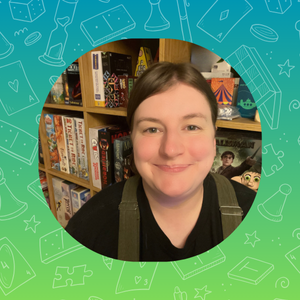
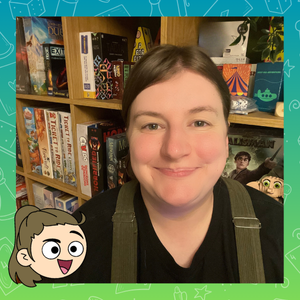
updated photos, added quote, upgraded mobile

diff --git a/style.css b/style.css
@@ -855,3 +855,170 @@ footer {
     min-width: 100%;
   }
 }
+
+/*-----*/
+
+.philosophy-quote{
+  max-width: 900px;
+  margin: 3rem auto;
+  padding: 2rem 2.25rem;
+  border-radius: 14px;
+  background: #fffef9; /* cream */
+  box-shadow: 0 16px 40px rgba(0,0,0,0.14);
+  border: 3px solid var(--teal);
+  position: relative;
+  transform: rotate(1deg);
+}
+
+.philosophy-quote::before{
+  content: "";
+  position: absolute;
+  top: -14px;
+  left: 50%;
+  transform: translateX(-50%) rotate(-2deg);
+  width: 120px;
+  height: 28px;
+  background: rgba(255, 107, 107, 0.35); /* coral tape */
+  border-radius: 8px;
+  box-shadow: 0 8px 18px rgba(0,0,0,0.08);
+}
+
+.quote-text{
+  font-size: clamp(1.1rem, 2vw, 1.45rem);
+  font-weight: 900;
+}
+
+.quote-attribution{
+  margin-top: 0.75rem;
+  font-weight: 800;
+  color: rgba(26,26,26,0.75);
+}
+
+/* =========================================
+   MOBILE-FIRST ENGAGEMENT ENHANCEMENTS
+   ========================================= */
+
+/* 1. Better vertical rhythm on mobile */
+@media (max-width: 768px) {
+  section {
+    padding: 4rem 1.25rem;
+  }
+
+  section + section {
+    margin-top: 2rem;
+  }
+}
+
+/* 2. Mobile hero tuning */
+@media (max-width: 768px) {
+  .hero {
+    min-height: auto;
+    padding-top: 6rem;
+  }
+
+  .hero-text h1 {
+    font-size: clamp(2.2rem, 9vw, 3rem);
+  }
+
+  .hero-visual {
+    margin-top: 2rem;
+    transform: scale(1.05);
+  }
+}
+
+/* 3. Gentle float animation for hero image (touch devices only) */
+@media (hover: none) {
+  .game-preview {
+    animation: floaty 4s ease-in-out infinite;
+  }
+}
+
+@keyframes floaty {
+  0%, 100% {
+    transform: translateY(0) rotate(2deg);
+  }
+  50% {
+    transform: translateY(-8px) rotate(2deg);
+  }
+}
+
+/* 4. Story text becomes cards on mobile */
+@media (max-width: 768px) {
+  .story-text {
+    background: rgba(255, 255, 255, 0.15);
+    padding: 1.25rem;
+    border-radius: 14px;
+    backdrop-filter: blur(6px);
+  }
+}
+
+/* 5. Juicy tap feedback (mobile only) */
+@media (hover: none) {
+  .btn:active,
+  .game-card:active,
+  .faq-question:active,
+  .polaroid:active {
+    transform: scale(0.97);
+  }
+}
+
+/* 6. Improved mobile navigation animation */
+@media (max-width: 768px) {
+  .nav-links {
+    transform: translateY(-10px);
+    opacity: 0;
+    transition: transform 0.3s ease, opacity 0.3s ease;
+  }
+
+  .nav-links.open {
+    transform: translateY(0);
+    opacity: 1;
+  }
+
+  .nav-links a {
+    padding: 0.75rem 0;
+    font-size: 1.1rem;
+  }
+}
+
+/* 7. Mobile-first CTA focus (hide secondary CTA) */
+@media (max-width: 768px) {
+  .btn-secondary {
+    display: none;
+  }
+}
+
+/* 8. Quote optimisation for mobile */
+@media (max-width: 768px) {
+  .philosophy-quote {
+    margin: 3rem auto;
+    padding: 2rem 1.5rem;
+  }
+
+  .quote-text {
+    font-size: 1.15rem;
+  }
+}
+
+/* 9. Scroll progress indicator (visual feedback) */
+body::before {
+  content: "";
+  position: fixed;
+  top: 0;
+  left: 0;
+  height: 4px;
+  width: 100%;
+  background: linear-gradient(to right, var(--coral), var(--teal));
+  transform-origin: left;
+  transform: scaleX(var(--scroll, 0));
+  z-index: 2000;
+}
+
+/* 10. Reduced motion support */
+@media (prefers-reduced-motion: reduce) {
+  * {
+    animation: none !important;
+    transition: none !important;
+    scroll-behavior: auto !important;
+  }
+}

diff --git a/index.html b/index.html
@@ -36,7 +36,7 @@
         <div class="hero-text">
           <h1>
             We make <span class="highlight">memorable</span> board games worth
-            playing twice
+            taking off your shelf
           </h1>
           <p class="hero-subtext">
             Two humans, one dog, zero corporate overlords. Just indie games with
@@ -170,6 +170,15 @@
           until they're actually fun. We make games that are easy to learn, fun
           to play, and even better when you add your own house rules.
         </p>
+ <div class="philosophy-quote">
+          <p class="quote-text">
+            "Playing board games and collecting board games are two separate hobbies"
+          </p>
+          <p class="quote-attribution">- Someone wise (probably Abby after buying another board game)</p>
+        </div>
+
+
+
         <div class="founders">
           <div class="polaroid">
             <img src="assets/matt.png" alt="Matt" />
@@ -209,11 +218,9 @@
 
         <div class="update-card">
           <div class="update-date">This Week</div>
-          <h3 class="update-title">Larry's playtest feedback:</h3>
+          <h3 class="update-title">Prototype sent off!</h3>
           <p class="update-text">
-            Barked twice, tried to eat a pen, knocked a vowel card off the
-            table. Somehow this helped us fix a timing issue. We don't question
-            his methods anymore.
+            We've been working hard sending off our designs to the printers, can't wait to see the first copy of Say What Now?!
           </p>
         </div>
 
@@ -222,18 +229,17 @@
           <h3 class="update-title">Kickstarter prep is WILD</h3>
           <p class="update-text">
             Turns out launching a board game involves way more spreadsheets than
-            we thought. But the prototypes look incredible and our playtesters
-            keep asking when they can buy it. Good sign?
+            we thought. Our playtesters keep asking when they can buy it. Good sign?
           </p>
         </div>
 
         <div class="update-card">
           <div class="update-date">Earlier</div>
-          <h3 class="update-title">Best house rule we've seen yet</h3>
+          <h3 class="update-title">Larry's playtest feedback:</h3>
           <p class="update-text">
-            A playtester added a "dramatic pause" rule that completely changed
-            the energy of the game. This is exactly why we build our games to be
-            tweakable. Make it yours!
+            Barked twice, tried to eat a pen, knocked a vowel card off the
+            table. Somehow this helped us fix a timing issue. We don't question
+            his methods anymore.
           </p>
         </div>
       </div>
